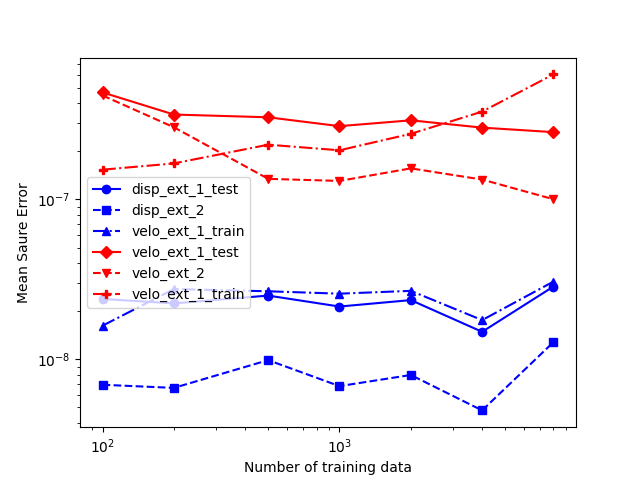
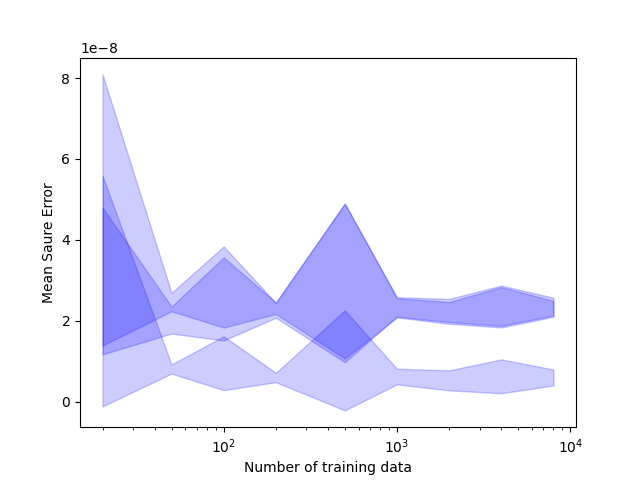
data size on autoencoder performance

diff --git a/exps/continuous_beam.py b/exps/continuous_beam.py
@@ -165,7 +165,7 @@ def ae_train_data_size():
     velo_2 = torch.tensor(full_data_2["velocity"], dtype=torch.float32).to(device)
     num_data = [20, 50, 100, 200, 500, 1000, 2000, 4000, 8000]
     num_trials = 10
-    errors_mean = [np.zeros((len(num_data), 3)) for _ in range(6)]
+    errors = [np.zeros((len(num_data), 3)) for _ in range(6)]
     (
         error_disp_train_mean,
         error_disp_test_1_mean,
@@ -173,8 +173,25 @@ def ae_train_data_size():
         error_velo_train_mean,
         error_velo_test_1_mean,
         error_velo_test_2_mean,
-    ) = errors_mean
-    errors_std = [np.zeros((len(num_data), 3)) for _ in range(6)]
+    ) = errors
+    (
+        error_disp_train_max,
+        error_disp_test_1_max,
+        error_disp_test_2_max,
+        error_velo_train_max,
+        error_velo_test_1_max,
+        error_velo_test_2_max,
+
+    ) = errors
+    (
+        error_disp_train_min,
+        error_disp_test_1_min,
+        error_disp_test_2_min,
+        error_velo_train_min,
+        error_velo_test_1_min,
+        error_velo_test_2_min,
+
+    ) = errors
     (
         error_disp_train_std,
         error_disp_test_1_std,
@@ -182,7 +199,7 @@ def ae_train_data_size():
         error_velo_train_std,
         error_velo_test_1_std,
         error_velo_test_2_std,
-    ) = errors_std
+    ) = errors
     for i, num in enumerate(num_data):
         errors = [np.zeros((num_trials, 3)) for _ in range(6)]
         (
@@ -225,16 +242,13 @@ def ae_train_data_size():
             error_disp_train_mean[i, :],
             error_disp_test_1_mean[i, :],
             error_disp_test_2_mean[i, :],
+            error_velo_train_mean[i, :],
+            error_velo_test_1_mean[i, :],
+            error_velo_test_2_mean[i, :],            
         ) = (
             np.mean(error_disp_train, axis=0),
             np.mean(error_disp_test_1, axis=0),
             np.mean(error_disp_test_2, axis=0),
-        )
-        (
-            error_velo_train_mean[i, :],
-            error_velo_test_1_mean[i, :],
-            error_velo_test_2_mean[i, :],
-        ) = (
             np.mean(error_velo_train, axis=0),
             np.mean(error_velo_test_1, axis=0),
             np.mean(error_velo_test_2, axis=0),
@@ -243,20 +257,48 @@ def ae_train_data_size():
             error_disp_train_std[i, :],
             error_disp_test_1_std[i, :],
             error_disp_test_2_std[i, :],
-        ) = (
-            np.std(error_disp_train, axis=0),
-            np.std(error_disp_test_1, axis=0),
-            np.std(error_disp_test_2, axis=0),
-        )
-        (
             error_velo_train_std[i, :],
             error_velo_test_1_std[i, :],
             error_velo_test_2_std[i, :],
         ) = (
+            np.std(error_disp_train, axis=0),
+            np.std(error_disp_test_1, axis=0),
+            np.std(error_disp_test_2, axis=0),
             np.std(error_velo_train, axis=0),
             np.std(error_velo_test_1, axis=0),
             np.std(error_velo_test_2, axis=0),
         )
+        (
+            error_disp_train_max[i, :],
+            error_disp_test_1_max[i, :],
+            error_disp_test_2_max[i, :],
+            error_velo_train_max[i, :],
+            error_velo_test_1_max[i, :],
+            error_velo_test_2_max[i, :],
+        ) = (
+            np.max(error_disp_train, axis=0),
+            np.max(error_disp_test_1, axis=0),
+            np.max(error_disp_test_2, axis=0),
+            np.max(error_velo_train, axis=0),
+            np.max(error_velo_test_1, axis=0),
+            np.max(error_velo_test_2, axis=0),
+        )
+        (
+            error_disp_train_min[i, :],
+            error_disp_test_1_min[i, :],
+            error_disp_test_2_min[i, :],
+            error_velo_train_min[i, :],
+            error_velo_test_1_min[i, :],
+            error_velo_test_2_min[i, :],
+        ) = (
+            np.min(error_disp_train, axis=0),
+            np.min(error_disp_test_1, axis=0),
+            np.min(error_disp_test_2, axis=0),
+            np.min(error_velo_train, axis=0),
+            np.min(error_velo_test_1, axis=0),
+            np.min(error_velo_test_2, axis=0),
+        )
+
     with open("./dataset/ae_train_data_size.pkl", "wb") as f:
         pickle.dump(
             {
@@ -272,6 +314,18 @@ def ae_train_data_size():
                 "error_velo_train_std": error_velo_train_std,
                 "error_velo_test_1_std": error_velo_test_1_std,
                 "error_velo_test_2_std": error_velo_test_2_std,
+                "error_disp_train_max": error_disp_train_max,
+                "error_disp_test_1_max": error_disp_test_1_max,
+                "error_disp_test_2_max": error_disp_test_2_max,
+                "error_velo_train_max": error_velo_train_max,
+                "error_velo_test_1_max": error_velo_test_1_max,
+                "error_velo_test_2_max": error_velo_test_2_max,
+                "error_disp_train_min": error_disp_train_min,
+                "error_disp_test_1_min": error_disp_test_1_min,
+                "error_disp_test_2_min": error_disp_test_2_min,
+                "error_velo_train_min": error_velo_train_min,
+                "error_velo_test_1_min": error_velo_test_1_min,
+                "error_velo_test_2_min": error_velo_test_2_min,
             },
             f,
         )

diff --git a/figures/ae_plot.py b/figures/ae_plot.py
@@ -48,18 +48,18 @@ def data_size():
 
     num_data = np.array([20, 50, 100, 200, 500, 1000, 2000, 4000, 8000])
 
-
+    print(error_disp_train_mean.shape)
     # fill the interval between mean - std and mean + std
-    plt.fill_between(num_data, error_disp_train_mean - error_disp_train_std, error_disp_train_mean + error_disp_train_std, alpha=0.2, color="blue")
-    plt.fill_between(num_data, error_disp_test_1_mean - error_disp_test_1_std, error_disp_test_1_mean + error_disp_test_1_std, alpha=0.2, color="blue")
-    plt.fill_between(num_data, error_disp_test_2_mean - error_disp_test_2_std, error_disp_test_2_mean + error_disp_test_2_std, alpha=0.2, color="blue")
-    plt.fill_between(num_data, error_velo_train_mean - error_velo_train_std, error_velo_train_mean + error_velo_train_std, alpha=0.2, color="red")
-    plt.fill_between(num_data, error_velo_test_1_mean - error_velo_test_1_std, error_velo_test_1_mean + error_velo_test_1_std, alpha=0.2, color="red")
-    plt.fill_between(num_data, error_velo_test_2_mean - error_velo_test_2_std, error_velo_test_2_mean + error_velo_test_2_std, alpha=0.2, color="red")
-
-    plt.yscale("log")
+    plt.fill_between(num_data, error_disp_train_mean[:, 2] - error_disp_train_std[:, 2], error_disp_train_mean[:, 2] + error_disp_train_std[:, 2], alpha=0.2, color="blue")
+    plt.fill_between(num_data, error_disp_test_1_mean[:, 2] - error_disp_test_1_std[:, 2], error_disp_test_1_mean[:, 2] + error_disp_test_1_std[:, 2], alpha=0.2, color="blue")
+    plt.fill_between(num_data, error_disp_test_2_mean[:, 2] - error_disp_test_2_std[:, 2], error_disp_test_2_mean[:, 2] + error_disp_test_2_std[:, 2], alpha=0.2, color="blue")
+    # plt.fill_between(num_data, error_velo_train_mean[:, 2] - error_velo_train_std[:, 2], error_velo_train_mean[:, 2] + error_velo_train_std[:, 2], alpha=0.2, color="red")
+    # plt.fill_between(num_data, error_velo_test_1_mean[:, 2] - error_velo_test_1_std[:, 2], error_velo_test_1_mean[:, 2] + error_velo_test_1_std[:, 2], alpha=0.2, color="red")
+    # plt.fill_between(num_data, error_velo_test_2_mean[:, 2] - error_velo_test_2_std[:, 2], error_velo_test_2_mean[:, 2]+ error_velo_test_2_std[:, 2], alpha=0.2, color="red")
+    # print(error_disp_test_1_mean[:, 2] - error_disp_test_1_std[:, 2])
+    # plt.yscale("log")
     plt.xscale("log")
-    plt.legend()
+    # plt.legend()
     plt.xlabel("Number of training data")
     plt.ylabel("Mean Saure Error")
     plt.savefig("./figures/data_size.png")
